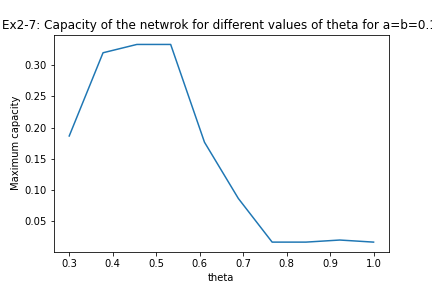
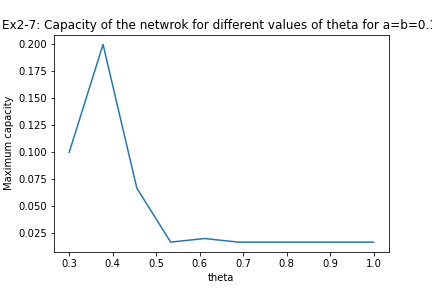
:(((((

diff --git a/Part2/Hop-Project-2.py b/Part2/Hop-Project-2.py
@@ -11,7 +11,7 @@ from neurodynex.hopfield_network import pattern_tools, network
 
 
 
-def random_pattern(N, a, n_patterns):
+def random_pattern_generator(N, a, n_patterns):
     pattern_generator = pattern_tools.PatternFactory(N, pattern_width=1)
     return pattern_generator.create_random_pattern_list(n_patterns, on_probability=a)
 
@@ -32,21 +32,31 @@ def hamming_distance(x,y):
 
 def map_function(theta_0):
     def map_function_theta(sigma_t0, w):
-        sigma_t1=[0.5 * (1 + np.sign(np.dot(wi,sigma_t0) - theta_0)) for wi in w]
+        sigma_t1=sigma_t0
+        for i in range(len(w)):
+            sigma_t1[i]=0.5 * (1 + np.sign(np.dot(w[i],sigma_t0) - theta_0))
+        return sigma_t1
+    return map_function_theta
+
+def map_function_2(theta_0):
+    def map_function_theta(sigma_t0, w):
+        sigma_t1=sigma_t0
+        for i in range(len(w)):
+            sigma_t1[i]=np.sign(np.dot(w[i],(sigma_t0+1)/2) - theta_0)
         return sigma_t1
     return map_function_theta
 
 
 def hop_network(N,n_patterns,a,b,theta_0):
     #Creating the random patterns of 1 & 0    
-    random_patterns = random_pattern(N, a, n_patterns)
+    random_patterns = random_pattern_generator(N, a, n_patterns)
     random_patterns = [(element + 1)/2 for element in random_patterns]  
     #Creating the new weights from the random patterns
     new_weights = weight_matrix(n_patterns, N, a, b, random_patterns)
     net = network.HopfieldNetwork(N)
+    net.set_dynamics_to_user_function(map_function(theta_0))
     #Changing the weights of the network
     net.weights=new_weights
-    net.set_dynamics_to_user_function(map_function(theta_0))
     return net, random_patterns
 
 
@@ -69,27 +79,24 @@ def pattern_mean_error(hamming_distance, m_vals, n_runs, flip_rate, N,
         means[i]=mean_error
     return means
 
-def retrievness(hamming_distance, m_vals, n_runs, flip_rate, N, 
+def Capacity(hamming_distance, m_vals, n_runs, flip_rate, N, 
                        a, b, opt_theta, theta_0 ):
     n_flips = int(flip_rate*N)
     no_patterns=len(m_vals)
-    means=np.zeros(no_patterns)
     no_retrieved=np.zeros(no_patterns)
     for i in range(no_patterns):
         theta = (1-opt_theta)*theta_0
         net, random_patterns = hop_network(N,m_vals[i],a,b,theta)
-        mean_error=0
         correctly_retrieved=0
         for pattern in random_patterns:
-            new_pattern=pattern*2-1
-            initial_state = pattern_tools.flip_n(new_pattern, n_flips)
+            initial_state = pattern_tools.flip_n(pattern*2-1, n_flips)
             initial_state=(initial_state + 1)/2
             net.set_state_from_pattern(initial_state)
             net.run(n_runs)
             correctly_retrieved+=(hamming_distance(net.state,pattern)<0.05)
         no_retrieved[i] = sum(correctly_retrieved)/m_vals[i]
-    Capacity=int(np.interp(0.5, np.flip(no_retrieved), np.flip(m_vals)))
-    return Capacity
+    Capacity=int(np.interp(0.95, np.flip(no_retrieved), np.flip(m_vals)))
+    return Capacity, no_retrieved
 
 
 
@@ -98,54 +105,32 @@ a = 0.5
 b = 0.5
 theta = 0
 n_runs = 6
-m_vals = (5, 10, 20, 40, 60, 80, 100)
+m_vals = (5, 10, 20, 30, 40, 60, 100)
 flip_rate = 0.05
 
 
+
 def ex2_5():
-    mean_error = 0
-    number_runs = 3
-    for i in range(number_runs):
-        mean_error=pattern_mean_error(hamming_distance, m_vals=m_vals, n_runs=n_runs, N=N, flip_rate=flip_rate, 
-                                       a=a, b=b, opt_theta=1, theta_0=theta)/number_runs
-    print(mean_error)
-    plt.plot(m_vals, mean_error)
-    plt.title("Ex2-5: Means distances between the final state and the target pattern.")
-    plt.xlabel("Number of patterns stored in the network")
-    plt.ylabel("Error (measured using Hamming distance)")
-    plt.savefig("plots/ex2-5.png")
-    plt.show()
-    print(np.interp(0.05, mean_error, m_vals))
 
-#x,y=retrievness(hamming_distance, m_vals=m_vals, n_runs=n_runs, N=N, flip_rate=flip_rate, 
-#                              a=a, b=b, opt_theta=1, theta_0=theta)
-
-def ex2_5_2():
-    theta_list=np.linspace(-5, 5, num = 10)
-    capacity=np.zeros(len(theta_list))
-    
-
-    for i, theta in enumerate(theta_list):
-        capacity[i]=retrievness(hamming_distance, m_vals=m_vals, n_runs=n_runs, N=N, flip_rate=flip_rate, 
-                                      a=a, b=b, opt_theta=1, theta_0=theta)/N
+    capacity=Capacity(hamming_distance, m_vals=m_vals, n_runs=n_runs, N=N, flip_rate=flip_rate, 
+                                      a=a, b=b, opt_theta=1, theta_0=theta)[1]*100
 
         
-    plt.plot(theta_list, capacity)
-    plt.title("Ex2-6: Capacity of the netwrok for different values of theta.")
-    plt.xlabel("theta")
-    plt.ylabel("Maximum capacity")
-    plt.savefig("plots/ex2-6.png")
+    plt.plot(m_vals, capacity)
+    plt.title("Ex2-5: Percentage of the correctly retrieved patterns.")
+    plt.xlabel("Dictionary size")
+    plt.ylabel("Percentage of the correctly retrieved patterns")
+    plt.savefig("plots/ex2-5.png")
     plt.show()
 
 def ex2_6():
     theta_list=np.linspace(-0.7, 0.7, num = 10)
     capacity=np.zeros(len(theta_list))
-    mean_error=0
     
 
     for i, theta in enumerate(theta_list):
-        capacity[i]=retrievness(hamming_distance, m_vals=m_vals, n_runs=n_runs, N=N, flip_rate=flip_rate, 
-                                      a=a, b=b, opt_theta=0, theta_0=theta)/N
+        capacity[i]=Capacity(hamming_distance, m_vals=m_vals, n_runs=n_runs, N=N, flip_rate=flip_rate, 
+                                      a=a, b=b, opt_theta=0, theta_0=theta)[0]/N
 
         
     plt.plot(theta_list, capacity)
@@ -161,12 +146,11 @@ def ex2_7():
     b = 0.1
     theta_list=np.linspace(0.3, 1, num = 10)
     capacity=np.zeros(len(theta_list))
-    mean_error=0
     
     
     for i, theta in enumerate(theta_list):
-        capacity[i]=retrievness(hamming_distance, m_vals=m_vals, n_runs=n_runs, N=N, flip_rate=flip_rate, 
-                                      a=a, b=b, opt_theta=0, theta_0=theta)/N
+        capacity[i]=Capacity(hamming_distance, m_vals=m_vals, n_runs=n_runs, N=N, flip_rate=flip_rate, 
+                                      a=a, b=b, opt_theta=0, theta_0=theta)[0]/N
         
     plt.plot(theta_list, capacity)
     plt.title("Ex2-7: Capacity of the netwrok for different values of theta for a=b=0.1.")
@@ -181,12 +165,11 @@ def ex2_7_2():
     b = 0.05
     theta_list=np.linspace(0.3, 1, num = 10)
     capacity=np.zeros(len(theta_list))
-    mean_error=0
     
     
     for i, theta in enumerate(theta_list):
-        capacity[i]=retrievness(hamming_distance, m_vals=m_vals, n_runs=n_runs, N=N, flip_rate=flip_rate, 
-                                      a=a, b=b, opt_theta=0, theta_0=theta)/N
+        capacity[i]=Capacity(hamming_distance, m_vals=m_vals, n_runs=n_runs, N=N, flip_rate=flip_rate, 
+                                      a=a, b=b, opt_theta=0, theta_0=theta)[0]/N
     
     plt.plot(theta_list, capacity)
     plt.title("Ex2-7: Capacity of the netwrok for different values of theta for a=b=0.05.")
@@ -204,8 +187,8 @@ def ex2_8():
     
     for j, b in enumerate(b_list):
         for i, theta in enumerate(theta_list):
-            capacity[j,i] = retrievness(hamming_distance, m_vals=m_vals, n_runs=n_runs, N=N, flip_rate=flip_rate, 
-                                          a=a, b=b, opt_theta=0, theta_0=theta)/N
+            capacity[j,i] = Capacity(hamming_distance, m_vals=m_vals, n_runs=n_runs, N=N, flip_rate=flip_rate, 
+                                          a=a, b=b, opt_theta=0, theta_0=theta)[0]/N
     
     plt.figure('Figure 2.8')
     for j, b in enumerate(b_list):
@@ -219,11 +202,25 @@ def ex2_8():
     plt.show()
 
 
+def ex2_5_2():
+    mean_error = 0
+    number_runs = 3
+    for i in range(number_runs):
+        mean_error=pattern_mean_error(hamming_distance, m_vals=m_vals, n_runs=n_runs, N=N, flip_rate=flip_rate, 
+                                       a=a, b=b, opt_theta=1, theta_0=theta)/number_runs
+    print(mean_error)
+    plt.plot(m_vals, mean_error)
+    plt.title("Ex2-5: Means distances between the final state and the target pattern.")
+    plt.xlabel("Number of patterns stored in the network")
+    plt.ylabel("Error (measured using Hamming distance)")
+    plt.savefig("plots/ex2-5.png")
+    plt.show()
+    print(np.interp(0.05, mean_error, m_vals))
 
 #ex2_5()
-#ex2_5_2()
-ex2_6()
-ex2_7()
-ex2_7_2()
-ex2_8()
+#ex2_6()
+#ex2_7()
+#ex2_7_2()
+#ex2_8()
 
+#ex2_5_2()
